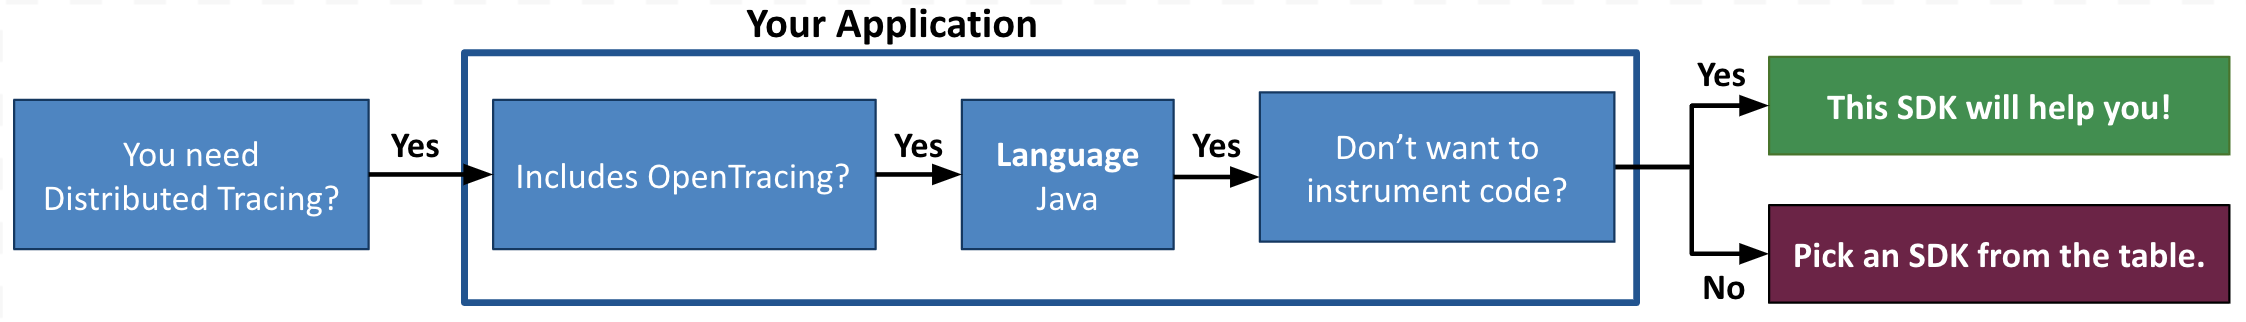
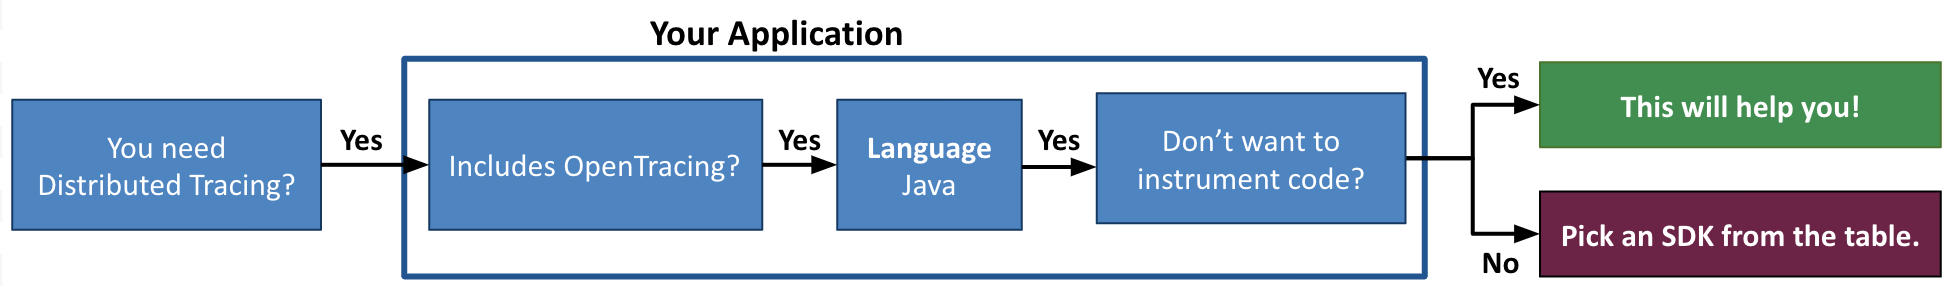
Update content

diff --git a/README.md b/README.md
@@ -24,7 +24,7 @@ The Wavefront Java Tracing Agent includes:
 > <b><i>Note</i></b>:
 > </br>
 >   * **This is the Wavefront by VMware Java Tracing Agent!**
->   If this SDK is not what you were looking for, see the [table](#wavefront-sdks) given below.
+>   If this is not what you were looking for, see the [table](#wavefront-sdks) given below.
 >   * Want to write code to instrument your application? Use the [Wavefront Java OpenTracing SDK](https://github.com/wavefrontHQ/wavefront-opentracing-sdk-java).
 >   * See <a href="https://docs.wavefront.com/tracing_instrumenting_frameworks.html">instrument your application for tracing</a> for more information.
 
